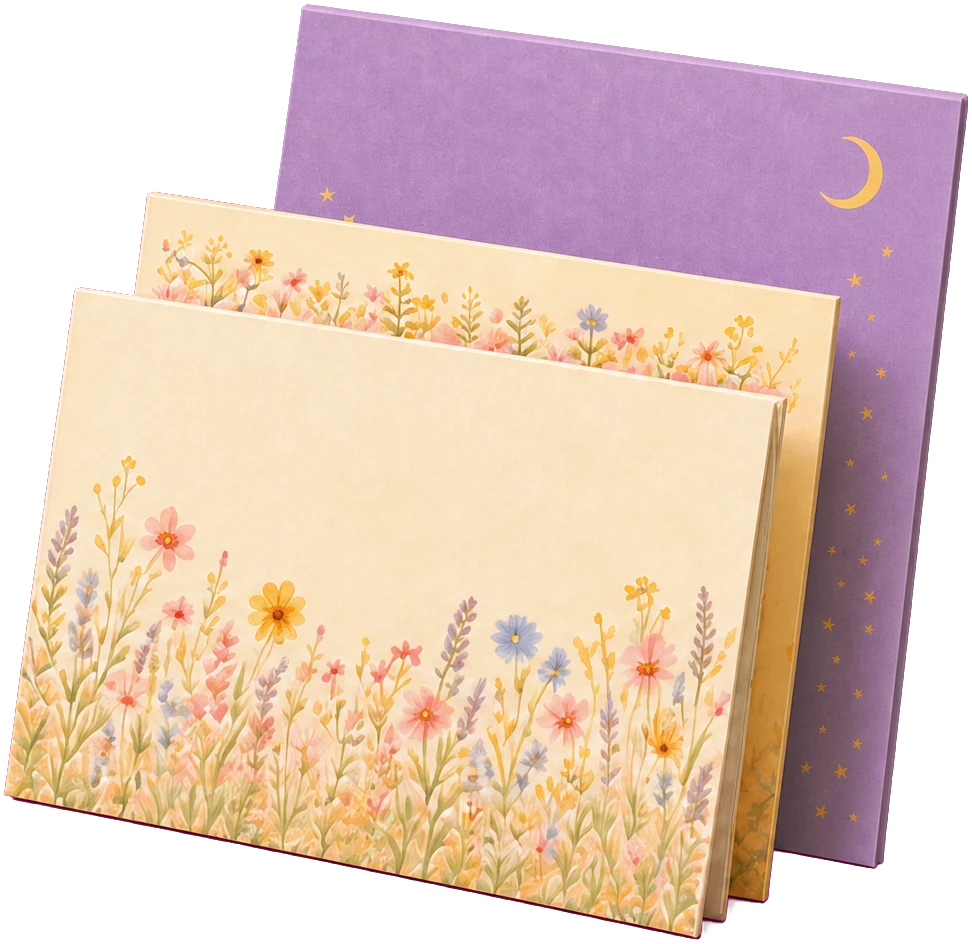
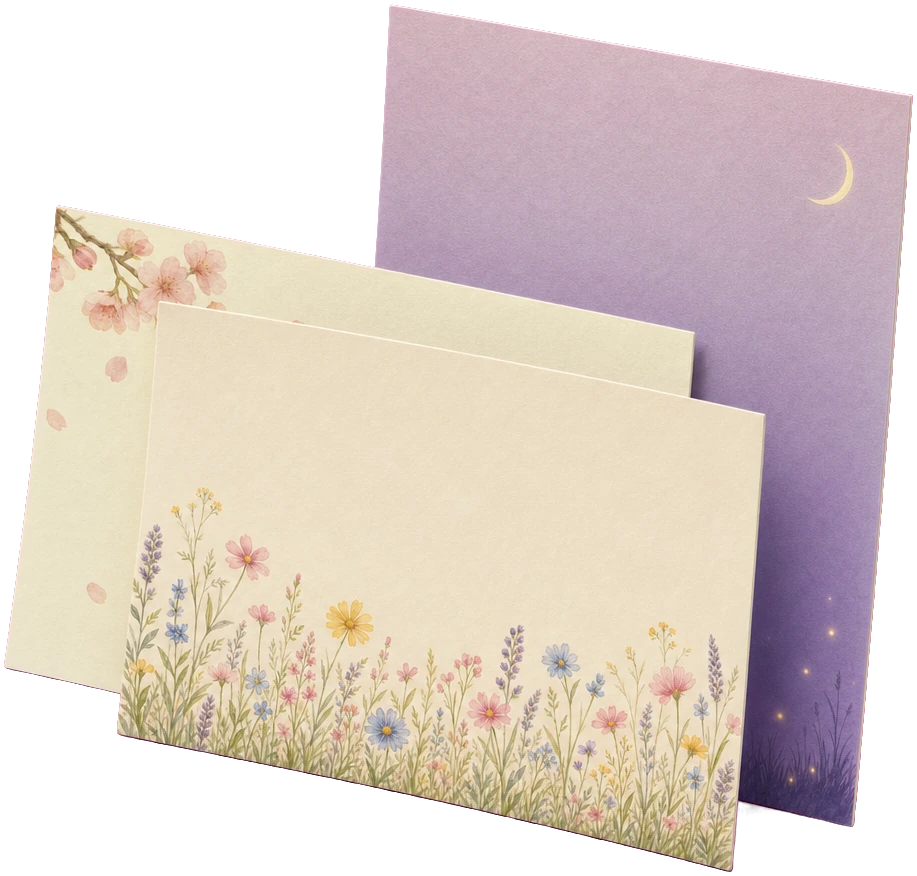
The desk becomes one picture, and a picture can only be scaled
Every collision the hero has had came from one cause, and it was not any
of the ones that got fixed: the props were anchored in TWO coordinate
systems at once. The desk is a rigid box driven by --scene - measured,
scene-h/scene is 0.5628 and the front lip sits at 0.687 of the height,
both constant to four decimals at every window shape. But sixteen
declarations also anchored props with "50% - 50vw", which is the
VIEWPORT's system, and the two slide against each other by scene/vw.
That ratio runs 0.609 to 1.040 across the range, so two props written in
different systems drift apart by up to 70% of the scene as the window
resizes.

--grid-right, --pile-off, --stamp-off, --rack-edge and six aspect-ratio
blocks were all machinery for re-deriving at runtime a spacing that
should have been constant. Measured off the layout boxes, the whole cast
spanned -0.183 to 1.197 of the scene: 1.38 desk-widths, with the mailbox
18% off the left edge of its own design box. It was sized to the viewport
while its depth was sized to the scene.

So the props move into one .hero__cast box and every one of them is a
PERCENTAGE OF IT. Percentages of a shared box are a similarity transform,
and a similarity transform cannot create an overlap - props that do not
touch at the design size cannot touch at any size. Non-overlap stops
being something to check at 33 viewports and becomes a property of the
structure. The percentages are the composition as art-directed at
1600x900, measured and frozen.
[…]

diff --git a/home.css b/home.css
@@ -743,6 +743,17 @@ body::after {
   height: var(--scene-h);
   transform: translateX(calc(-50% + var(--scene-x)));
   z-index: 1;
+
+  /* THE ONE KNOB, AND THERE IS ONLY THIS ONE. The cast is 1.3796 scenes wide
+     as composed; the cap keeps it inside the window at square and tall
+     aspects, where --scene outgrows the viewport (scene/vw reaches 1.04).
+     Three graded versions of this line were written first, one per
+     breakpoint - tabulated against each other they were identical above
+     1440 and never more than 8% apart anywhere else, because below ~1400 it
+     is the CAP that binds and the multiplier never gets a vote. Both
+     branches scale the picture uniformly and neither can deform it, so this
+     is safe to tune by eye. */
+  --cast: min(calc(var(--scene) * 1.3796), 99vw);
 }
 .desk__mint, .desk__wood {
   position: absolute;
@@ -791,40 +802,100 @@ body::after {
   filter: drop-shadow(-6px 7px 8px rgba(96, 78, 44, .22));
 }
 
-.obj--mailbox {
-  left: calc(50% - 50vw + clamp(14px, 2vw, 36px));
-  bottom: calc(var(--scene-h) * 0.385);
-  width: calc(var(--scene) * 0.29);
-}
-.obj--stack {
-  left: max(calc(var(--scene) * 0.26), calc(50% - 50vw + var(--scene) * 0.29 + clamp(14px, 2vw, 36px) + 26px));
-  bottom: calc(var(--scene-h) * 0.29);
-  width: calc(var(--scene) * 0.28);
+/* ====================================================================
+   THE CAST - ONE RIGID GROUP, NOT THIRTEEN PLACEMENTS
+
+   Every collision this hero ever had came from one cause: the props were
+   anchored in TWO coordinate systems at once. The desk is a fixed box driven
+   by --scene (measured: scene-h/scene 0.5628 and the front lip at 0.687 of
+   the height, both constant to four decimals at every window shape). But
+   sixteen declarations ALSO anchored props with "50% - 50vw", which is the
+   viewport's system. The two slide against each other by scene/vw, and that
+   ratio runs 0.61 -> 1.04 across the range: a 1.7x swing. Two props written
+   in different systems drift apart by up to 70% of the scene as the window
+   resizes. That is why no amount of tuning ever held - --grid-right,
+   --pile-off, --stamp-off, --rack-edge and six aspect-ratio blocks were all
+   machinery for re-deriving at runtime a spacing that should have been
+   constant.
+
+   So the cast is ONE box and every prop is a PERCENTAGE OF IT. Percentages
+   of a shared box are a similarity transform, and a similarity transform
+   cannot create an overlap: props that do not touch at the design size
+   cannot touch at any size. Non-overlap stops being something to verify at
+   33 viewports and becomes something the structure guarantees.
+
+   It also means --cast may be ANY expression - viewport, scene, a min() of
+   both - with no risk at all. It is one length; moving it scales the picture
+   and changes nothing else. The percentages below ARE the composition as it
+   was art-directed at 1600x900, measured off the layout boxes and frozen.
+
+   NEVER add a media query for an individual prop. Move --cast. */
+.hero__cast {
+  position: absolute;
+  left: 50%;
+  /* THE FOOTING. The lowest prop sits at the cast's own bottom edge, so this
+     is where the composition meets the desk. The second term is the only
+     coupling in the whole system, and it earns its place: the front lip
+     RISES to the left, so a cast squeezed by its cap pulls the right-hand
+     props inward into shallower desk and their clearance falls (26px down to
+     5px across the range). The term is exactly zero while the cast is at its
+     natural 1.3796 scenes and lifts the picture only by how much the cap has
+     taken - it moves the whole cast as one, so it cannot deform anything. */
+  bottom: calc(var(--scene-h) * 0.166
+               + (var(--scene) - var(--cast) * 0.7249) * 0.09);
+  width: var(--cast);
+  aspect-ratio: 2.9394;
+  transform: translateX(-50%);
 }
 
+.obj--mailbox { left:  0;       bottom: 26.326%; width: 21.005%; }
+.obj--stack   { left: 32.087%;  bottom: 14.962%; width: 20.296%; }
 
 /* The rack is one re-rendered image: three sheets whose lean and mutual
    occlusion the regeneration preserved, so nothing here to choreograph. */
-.obj--rack {
-  right: calc(50% - 50vw + var(--scene) * 0.014);
-  bottom: calc(var(--scene-h) * 0.235);
-  width: calc(var(--scene) * 0.325);
+.obj--rack    { left: 76.418%;  bottom:  8.333%; width: 23.582%; }
+
+/* Stamps lie flat on the desk. LYING ON IT, not standing on it: rotate()
+   turns a stamp, it never lays one down - a thing flat on this desk has its
+   horizontal edges on the desk's own recession line, which is a SHEAR. The
+   staircase descends to the right because the front lip does, and uniform
+   scaling preserves both angles, so they stay parallel at every size. */
+.obj--stamp   { width: 3.286%; }
+.obj--stamp1  { left: 75.967%;  bottom:  2.461%; }
+.obj--stamp2  { left: 80.348%;  bottom:  1.137%; }
+.obj--stamp3  { left: 84.665%;  bottom:  0; }
+.obj--stamp img {
+  filter: drop-shadow(-1px 1.5px 1.5px rgba(96, 78, 44, .32));
+  transform: skewY(var(--mint-skew)) scaleY(.7);
 }
 
-/* Stamps lie flat on the desk. v3 foreshortened and scattered square art
-   with transforms; the re-rendered stamps carry the scene's own perspective
-   and tilt IN the art, so no transform - a transform here double-applies. */
-.obj--stamp { width: calc(var(--scene) * 0.064); }
-.obj--stamp img {
-  filter: drop-shadow(-1px 2px 2px rgba(96, 78, 44, .35));
-  /* lying ON the desk: edges follow the desk's recession, slightly
-     foreshortened - without this the baked tilts read as hovering */
-  transform: rotate(2.2deg) scaleY(.94);
+/* Four columns, two ranks, lying in FRONT of the paper pile - lower on the
+   desk is nearer the viewer, so a rank whose top sits below the pile's foot
+   reads as in front of it and may share its x-range freely. Tipped towards
+   the viewer at scaleY .94 - cos(19deg) against the .72 = cos(44deg) the
+   stamps lie at. */
+.obj--stickers { display: contents; }
+.obj--stickers img {
+  position: absolute;
+  width: 2.191%;
+  height: auto;
+  filter: drop-shadow(-1px 1.5px 1.5px rgba(96, 78, 44, .30));
+  /* right to left: turned in its own plane, then tipped, then sheared onto
+     the desk's line. Rotating after the squash would turn a square oval. */
+  transform: skewY(var(--mint-skew)) scaleY(.94) rotate(var(--turn, 0deg));
 }
-.obj--stamp1 { left: calc(var(--scene) * 0.575); bottom: calc(var(--scene-h) * 0.235); }
-.obj--stamp2 { left: calc(var(--scene) * 0.652); bottom: calc(var(--scene-h) * 0.221); }
-.obj--stamp3 { left: calc(var(--scene) * 0.729); bottom: calc(var(--scene-h) * 0.206); }
-.obj--stamp4 { left: calc(var(--scene) * 0.806); bottom: calc(var(--scene-h) * 0.190); }
+.obj--stickers img:nth-child(4n + 1) { --turn: -11deg; left: 58.763%; }
+.obj--stickers img:nth-child(4n + 2) { --turn:  -4deg; left: 61.662%; }
+.obj--stickers img:nth-child(4n + 3) { --turn:   4deg; left: 64.562%; }
+.obj--stickers img:nth-child(4n + 4) { --turn:  11deg; left: 67.461%; }
+.obj--stickers img:nth-child(1) { bottom: 12.310%; }
+.obj--stickers img:nth-child(2) { bottom: 11.552%; }
+.obj--stickers img:nth-child(3) { bottom: 10.795%; }
+.obj--stickers img:nth-child(4) { bottom: 10.038%; }
+.obj--stickers img:nth-child(5) { bottom: 19.507%; }
+.obj--stickers img:nth-child(6) { bottom: 18.561%; }
+.obj--stickers img:nth-child(7) { bottom: 17.993%; }
+.obj--stickers img:nth-child(8) { bottom: 17.235%; }
 
 /* the bee, hung off the top of the frame - identical to v2 */
 :root {
@@ -951,30 +1022,12 @@ body::after {
   :root { --hero-h: calc(var(--scene) * 0.762 + 10.1339vw + 24px); }
 }
 
-/* 1024-1400: the copy column narrows faster than the scene - the mailbox
-   dome was reaching the headline's first glyph, so it shrinks and tucks
-   further off the left edge */
-@media (max-width: 1400px) and (min-width: 1024px) {
-  .obj--mailbox { width: calc(var(--scene) * 0.26); left: calc(50% - 50vw + clamp(12px, 1.6vw, 28px)); bottom: calc(var(--scene-h) * 0.36); }
-  /* the buttons sit closer to the scene here; the rack steps down so its
-     purple corner stays clear of See-how-it-works (pixel-checked) */
-  .obj--rack    { bottom: calc(var(--scene-h) * 0.20); }
-}
-
 /* <=1023 (tablet): everything still present, but tighter - the mailbox and
    rack step in from the edges and down, the stamps shrink, so the copy keeps
    its air. The scene floor drops with it: cropping a 760px scene into an
    800px window is not a composition. */
 @media (max-width: 1023px) {
   :root { --scene: clamp(580px, min(100vw, 143vh), 1560px); }
-  .obj--mailbox { width: calc(var(--scene) * 0.215); left: calc(var(--scene) * 0.012); bottom: calc(var(--scene-h) * 0.34); }
-  .obj--stack   { width: calc(var(--scene) * 0.26); left: max(calc(var(--scene) * 0.30), calc(50% - 50vw + var(--scene) * 0.235 + 38px)); bottom: calc(var(--scene-h) * 0.30); }
-  .obj--rack    { width: calc(var(--scene) * 0.305); bottom: calc(var(--scene-h) * 0.205); }
-  .obj--stamp   { width: calc(var(--scene) * 0.058); }
-  .obj--stamp1  { left: calc(var(--scene) * 0.565); bottom: calc(var(--scene-h) * 0.230); }
-  .obj--stamp2  { left: calc(var(--scene) * 0.638); bottom: calc(var(--scene-h) * 0.217); }
-  .obj--stamp3  { left: calc(var(--scene) * 0.711); bottom: calc(var(--scene-h) * 0.203); }
-  .obj--stamp4  { left: calc(var(--scene) * 0.784); bottom: calc(var(--scene-h) * 0.188); }
 }
 
 /* <=639 (phone): a different composition, not a smaller one. The desk is a
@@ -988,12 +1041,7 @@ body::after {
   }
   .hero { padding-bottom: calc(var(--scene) * 0.225 + 14.2vw + 150px); }
   :root { --skep-top: 6px; }
-  .obj--mailbox { width: calc(var(--scene) * 0.21); left: calc(50% - 50vw + 8px); bottom: calc(var(--scene-h) * 0.35); }
-  .obj--stack   { width: calc(var(--scene) * 0.26); left: calc(50% - 50vw + var(--scene) * 0.21 + 24px); bottom: calc(var(--scene-h) * 0.27); }
-  .obj--stamp1, .obj--stamp4 { display: none; }
-  .obj--rack    { right: calc(50% - 50vw + 14vw - 90px); bottom: calc(var(--scene-h) * 0.27); width: calc(var(--scene) * 0.25); }
-  .obj--stamp2  { left: auto; right: calc(50% - 50vw + 15vw); bottom: calc(var(--scene-h) * 0.225); }
-  .obj--stamp3  { left: auto; right: calc(50% - 50vw + 19vw); bottom: calc(var(--scene-h) * 0.245); }
+
   /* Restate the headline only. .hero__second is a fraction of it, so the
      aside follows without this block knowing the ratio - which is what the
      old rule got wrong by naming both selectors and making them equal. */
@@ -1006,21 +1054,22 @@ body::after {
   .hero__actions .btn--primary { padding: .85rem 1.9rem; font-size: .95rem; }
 }
 
-/* <=430 (small phones): THE DESK STAYS. It used to bow out here, leaving the
-   mailbox and the paper pile as a still life on the wall - and without the
-   desk under them the hero reads weak on a phone, which is the size most
-   people will meet it at (Patrick, 2026-08-31). The desk is the thing the
-   whole page is about; a phone is the last place to drop it.
+/* <=430 (small phones): THE DESK STAYS, AND SO DOES EVERYTHING ON IT. It
+   used to bow out here, leaving the mailbox and the pile as a still life on
+   the wall - and without the desk under them the hero reads weak on a phone,
+   which is the size most people will meet it at (Patrick, 2026-08-31).
 
-   What changes instead is the CROWD. Two props on a 375px-wide desk is a
-   scene; four is a shelf. The rack and the stamps go, the mailbox and the
-   pile stay and grow, and both are sized from the VIEWPORT rather than the
-   clamped scene - at these widths --scene is pinned to its 440px floor, so
-   scene-fractions stop shrinking while the screen keeps going. */
+   The crowd used to thin out here too: rack, stamps and stickers all left,
+   on the reasoning that two props on a 375px desk is a scene and more is a
+   shelf. That turned out to be a symptom, not a judgement. The props were
+   not too small - the CAST was too big, at 150vw, which pushed the rack
+   (76-100% of the cast) clean off the right edge and then made the small
+   props look like the problem. With the cast at its ordinary size the whole
+   composition lands inside a 375px window with 6px to spare, so nothing has
+   to go. The phone now shows the same eleven objects as a 2560px monitor.
+
+   Only the hive still leaves, and for a genuine collision. */
 @media (max-width: 430px) {
-  .obj--rack, .obj--stamp2, .obj--stamp3 { display: none; }
-  .obj--mailbox { width: 30vw; left: calc(50% - 50vw + 3vw); bottom: calc(var(--scene-h) * 0.335); }
-  .obj--stack   { width: 44vw; left: calc(50% - 50vw + 40vw); bottom: calc(var(--scene-h) * 0.265); }
   /* The hive goes too, and for the same reason the rack did - but its problem
      is collision rather than clutter. It hangs in the top-right corner, which
      below 880 is also where the burger lives; it steps left to clear it, and

diff --git a/index.html b/index.html
@@ -43,7 +43,7 @@
   <link rel="stylesheet" href="https://fonts.googleapis.com/css2?family=Courier+Prime:wght@400;700&amp;family=Lora:ital,wght@0,400..700;1,400..700&amp;family=Plus+Jakarta+Sans:wght@400..800&amp;display=swap" />
   <!-- home.css styles THIS PAGE ONLY. Everything else on the site still runs
        styles.css; see the note at the top of home.css. -->
-  <link rel="stylesheet" href="home.css?v=4bcdcc01" />
+  <link rel="stylesheet" href="home.css?v=16ed7af4" />
 </head>
 <body>
 
@@ -136,25 +136,48 @@
     <div class="desk__mint"></div>
     <div class="desk__wood"></div>
 
-    <div class="obj obj--mailbox">
-      <img src="assets/hero/p-mailbox.webp" width="723" height="863"
-           alt="A mint mailbox with letters waiting inside and its flag up" />
-    </div>
+    <!-- ONE RIGID CAST, not thirteen placements. Every prop inside is
+         positioned as a PERCENTAGE OF THIS BOX, so the whole composition is
+         a single similarity transform - it can be scaled but never deformed,
+         and two props that do not touch at the design size cannot touch at
+         any size. See home.css "THE CAST" for why that replaced sixteen
+         viewport-anchored offsets. -->
+    <div class="hero__cast">
+      <div class="obj obj--mailbox">
+        <img src="assets/hero/p-mailbox.webp" width="723" height="863"
+             alt="A mint mailbox with letters waiting inside and its flag up" />
+      </div>
 
-    <div class="obj obj--rack">
-      <img src="assets/hero/p-rack.webp" width="972" height="944"
-           alt="Three sheets of decorated writing paper standing on the desk" />
-    </div>
+      <div class="obj obj--rack">
+        <img src="assets/hero/p-rack.webp" width="917" height="876"
+             alt="Three sheets of writing paper standing on the desk: a wildflower meadow in front, a cherry-blossom branch behind it, and a moonlit night sky at the back" />
+      </div>
 
-    <div class="obj obj--stack">
-      <img src="assets/hero/p-stack.webp" width="1200" height="527"
-           alt="A stack of writing paper with a pen resting on top" />
-    </div>
+      <div class="obj obj--stack">
+        <img src="assets/hero/p-stack.webp" width="1200" height="527"
+             alt="A stack of writing paper with a pen resting on top" />
+      </div>
 
-    <div class="obj obj--stamp obj--stamp1"><img src="assets/hero/p-stamp-sprig.webp" width="200" height="200" alt="" /></div>
-    <div class="obj obj--stamp obj--stamp2"><img src="assets/hero/p-stamp-ladybug.webp" width="200" height="200" alt="" /></div>
-    <div class="obj obj--stamp obj--stamp3"><img src="assets/hero/p-stamp-lighthouse.webp" width="200" height="200" alt="" /></div>
-    <div class="obj obj--stamp obj--stamp4"><img src="assets/hero/p-stamp-rainbow.webp" width="200" height="200" alt="" /></div>
+      <div class="obj obj--stamp obj--stamp1"><img src="assets/hero/p-stamp-bluebell.webp" width="200" height="207" alt="" /></div>
+      <div class="obj obj--stamp obj--stamp2"><img src="assets/hero/p-stamp-lighthouse.webp" width="200" height="209" alt="" /></div>
+      <div class="obj obj--stamp obj--stamp3"><img src="assets/hero/p-stamp-rainbow.webp" width="200" height="207" alt="" /></div>
+      <!-- Eight fixed placements, and that is now the CORRECT answer. The
+           earlier note here said hand-placed lefts "cannot be right at more
+           than one size" - true while the band around them moved, which is
+           exactly the fault the cast removed. Inside a rigid box the eight
+           are placed once and scale with everything else. Tilt is baked into
+           each PNG; the CSS only shears them onto the desk's line. -->
+      <div class="obj obj--stickers">
+        <img src="assets/hero/p-sticker-toadstoolhouse.webp" width="190" height="182" alt="" />
+        <img src="assets/hero/p-sticker-butterfly.webp" width="190" height="136" alt="" />
+        <img src="assets/hero/p-sticker-gull.webp" width="190" height="161" alt="" />
+        <img src="assets/hero/p-sticker-shell.webp" width="190" height="168" alt="" />
+        <img src="assets/hero/p-sticker-sakura.webp" width="190" height="178" alt="" />
+        <img src="assets/hero/p-sticker-koi.webp" width="190" height="168" alt="" />
+        <img src="assets/hero/p-sticker-onigiri.webp" width="190" height="182" alt="" />
+        <img src="assets/hero/p-sticker-frangipani.webp" width="190" height="162" alt="" />
+      </div>
+    </div>
   </div>
 
   <div class="hero__skep-cord" aria-hidden="true"></div>
